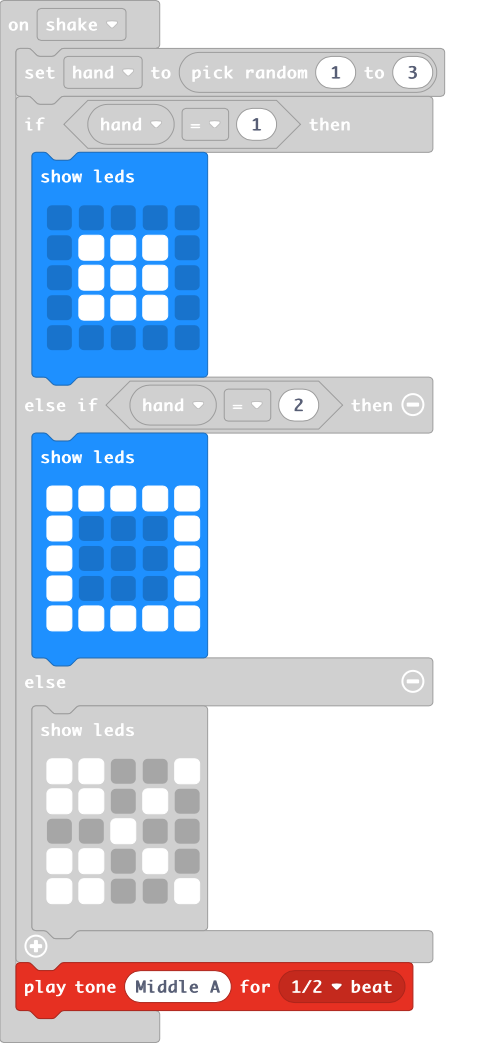
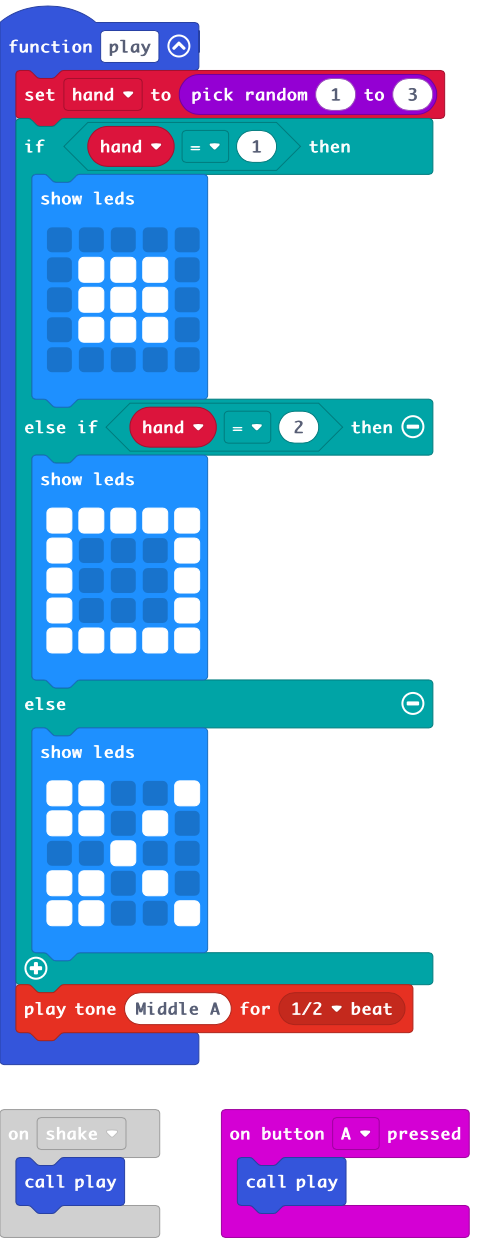
called play functions on button a pressed

diff --git a/main.ts b/main.ts
@@ -1,5 +1,8 @@
 let hand = 0
-input.onGesture(Gesture.Shake, function () {
+input.onButtonPressed(Button.A, function () {
+    play()
+})
+function play () {
     hand = randint(1, 3)
     if (hand == 1) {
         basic.showLeds(`
@@ -27,4 +30,7 @@ input.onGesture(Gesture.Shake, function () {
             `)
     }
     music.playTone(440, music.beat(BeatFraction.Half))
+}
+input.onGesture(Gesture.Shake, function () {
+    play()
 })
